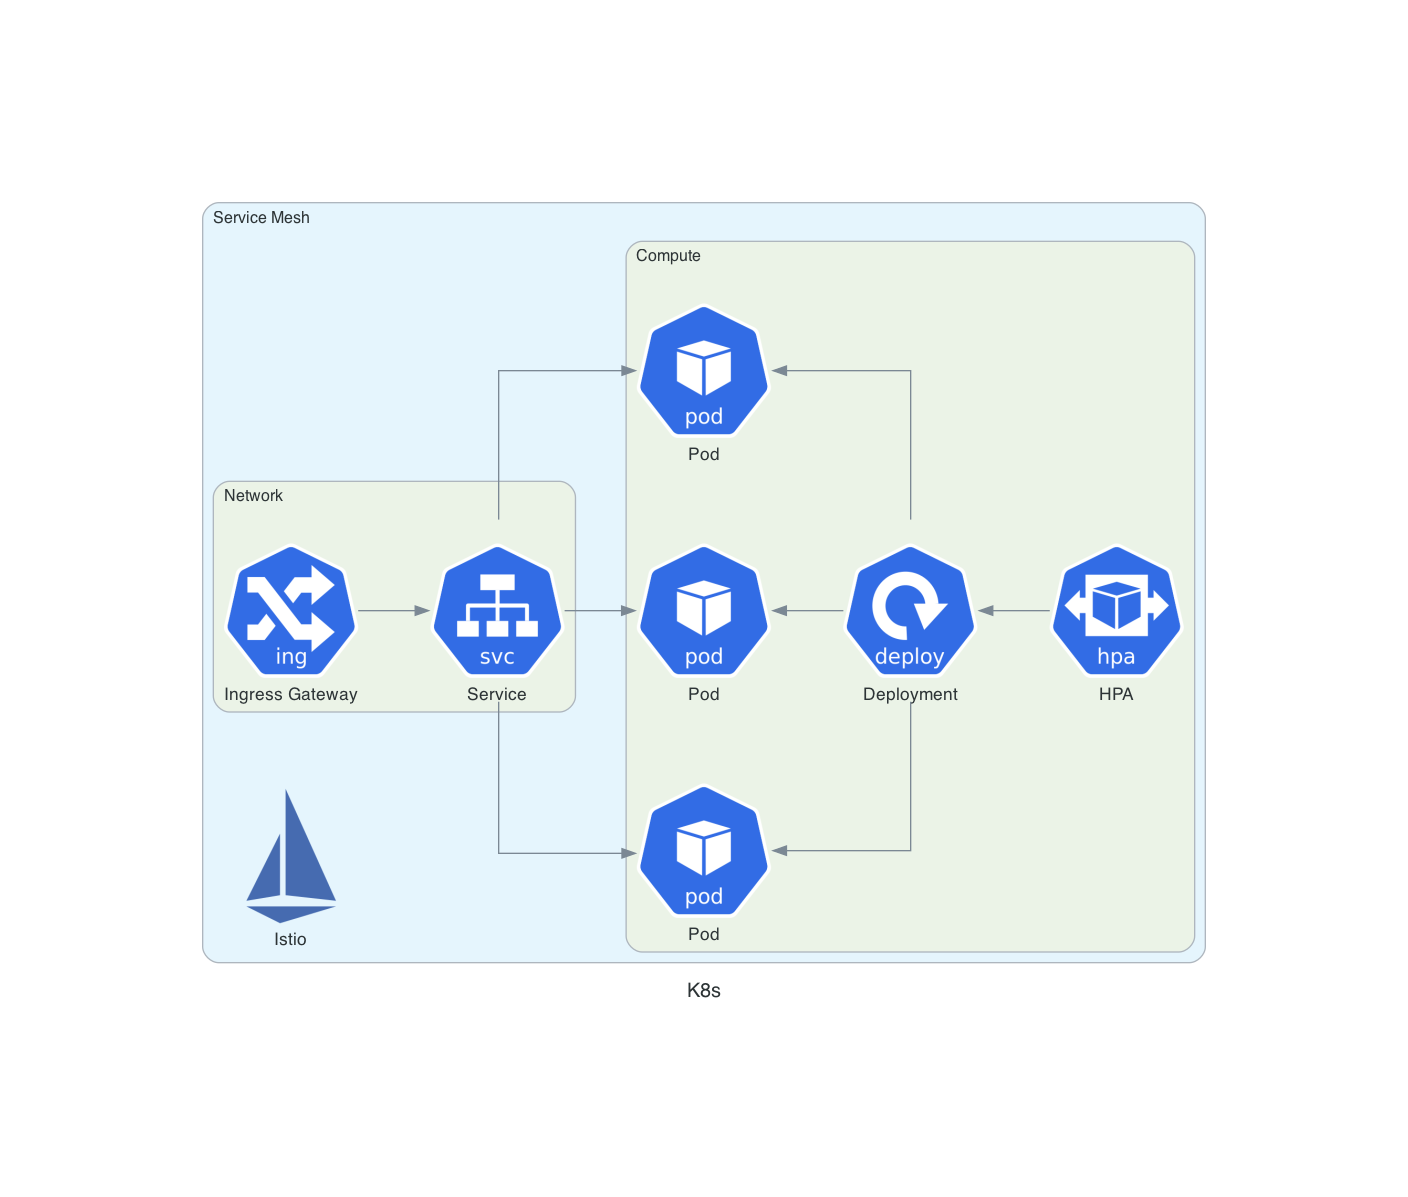
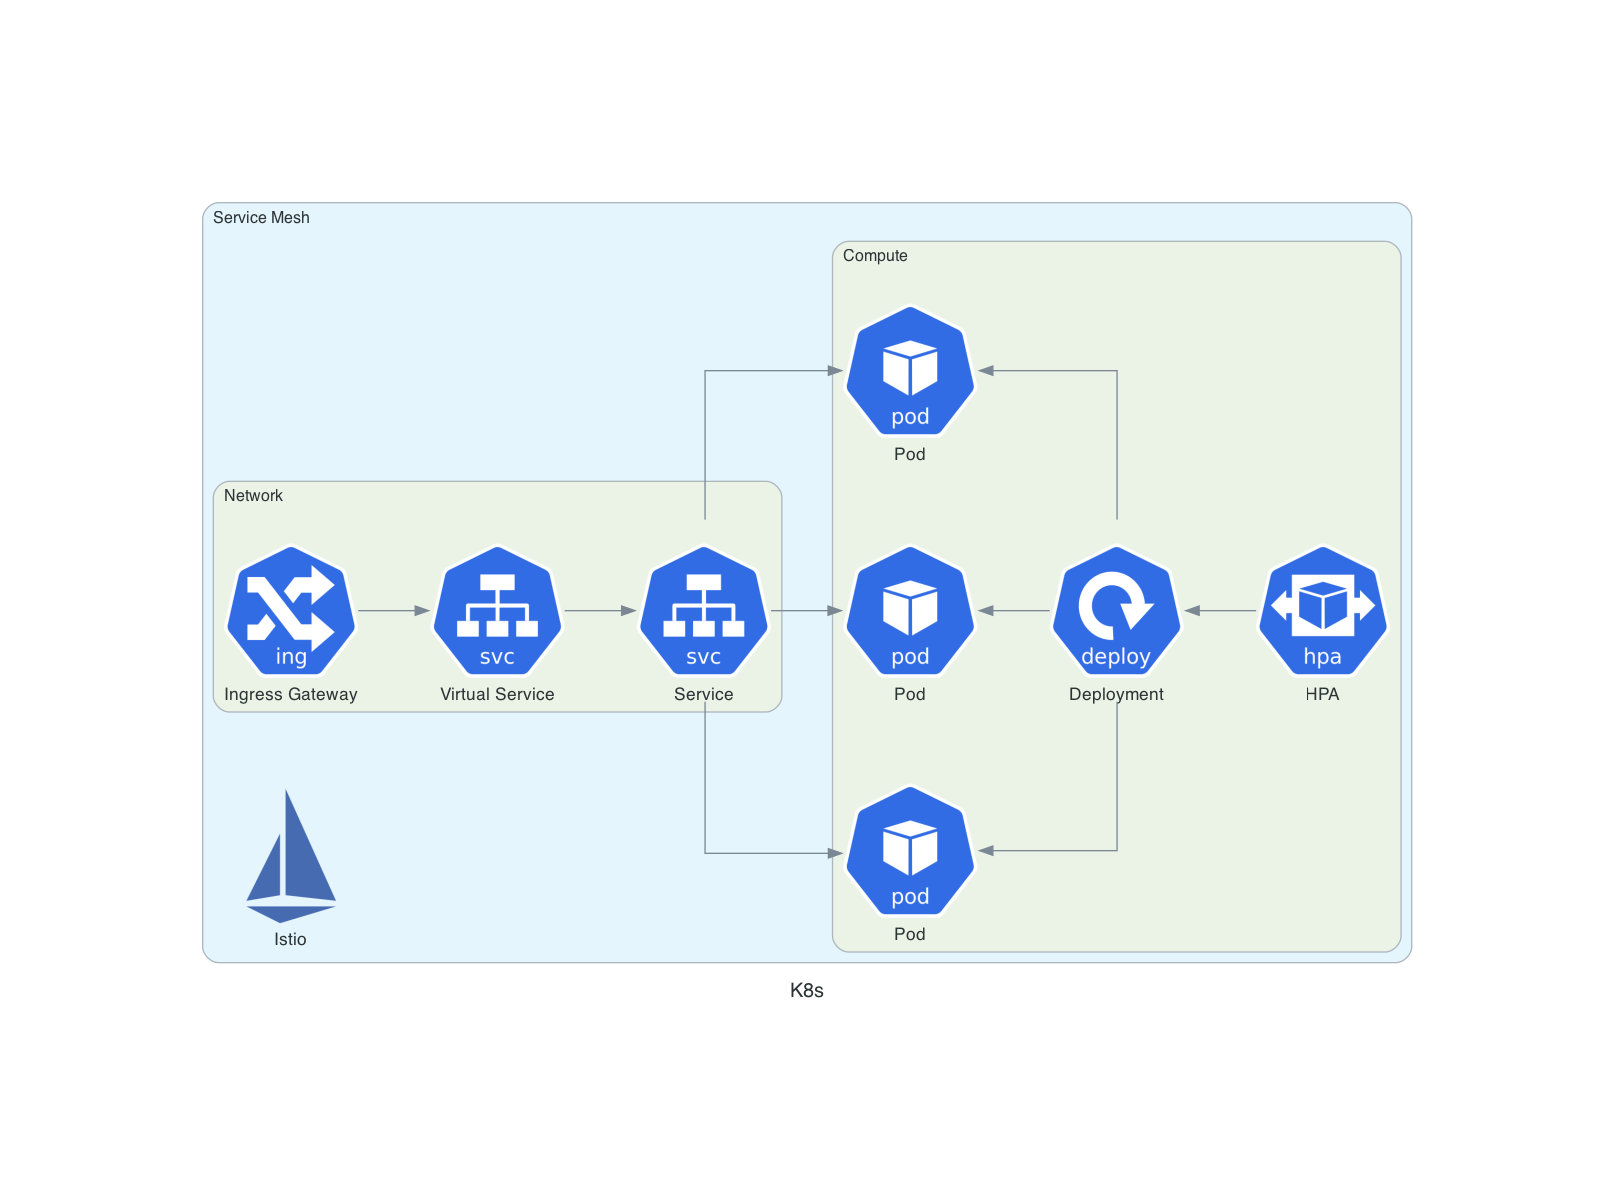
fix: add virtual service in k8s

diff --git a/k8s.py b/k8s.py
@@ -8,8 +8,9 @@ with (Diagram("K8s", filename="img/k8s", show=False)):
         istio = onprem_network.Istio("Istio")
         with Cluster("Network"):
             ingressGateway = k8s_network.Ingress("Ingress Gateway")
+            virtualService = k8s_network.SVC("Virtual Service")
             service = k8s_network.SVC("Service")
-            ingressGateway >> service
+            ingressGateway >> virtualService >> service
         with Cluster("Compute"):
             deployment = k8s_compute.Deployment("Deployment")
             hpa = k8s_clusterconfig.HPA("HPA")
